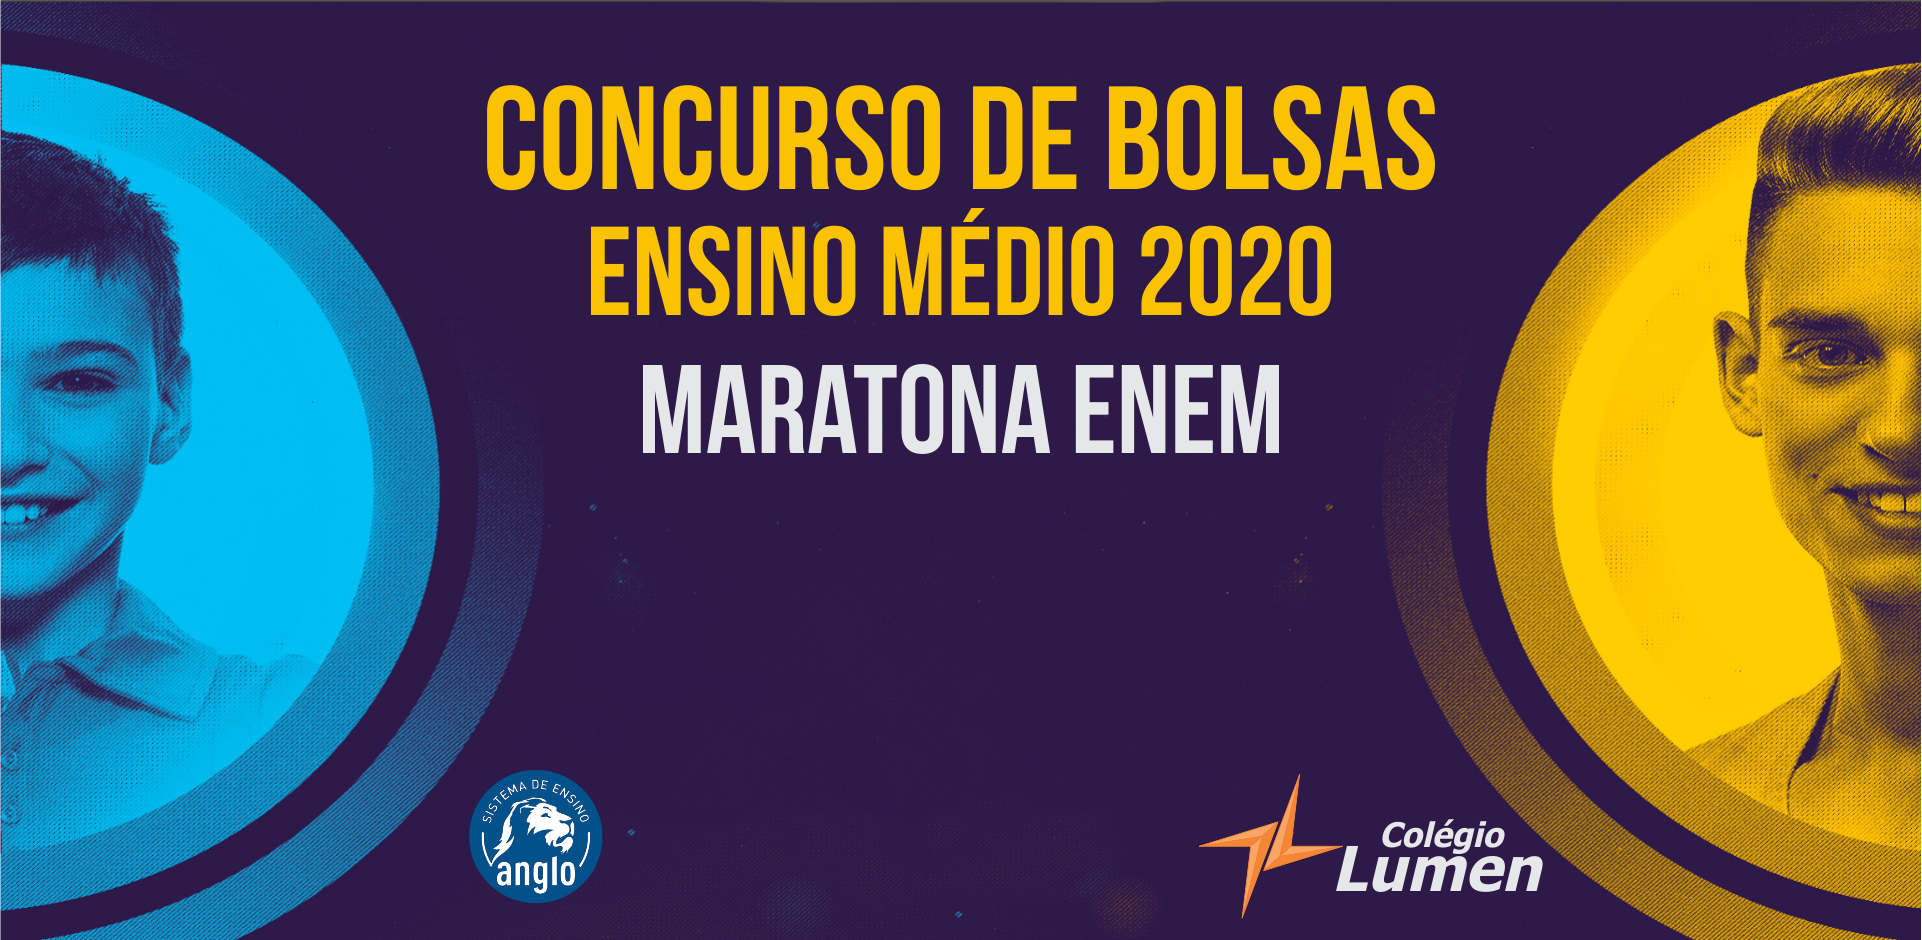
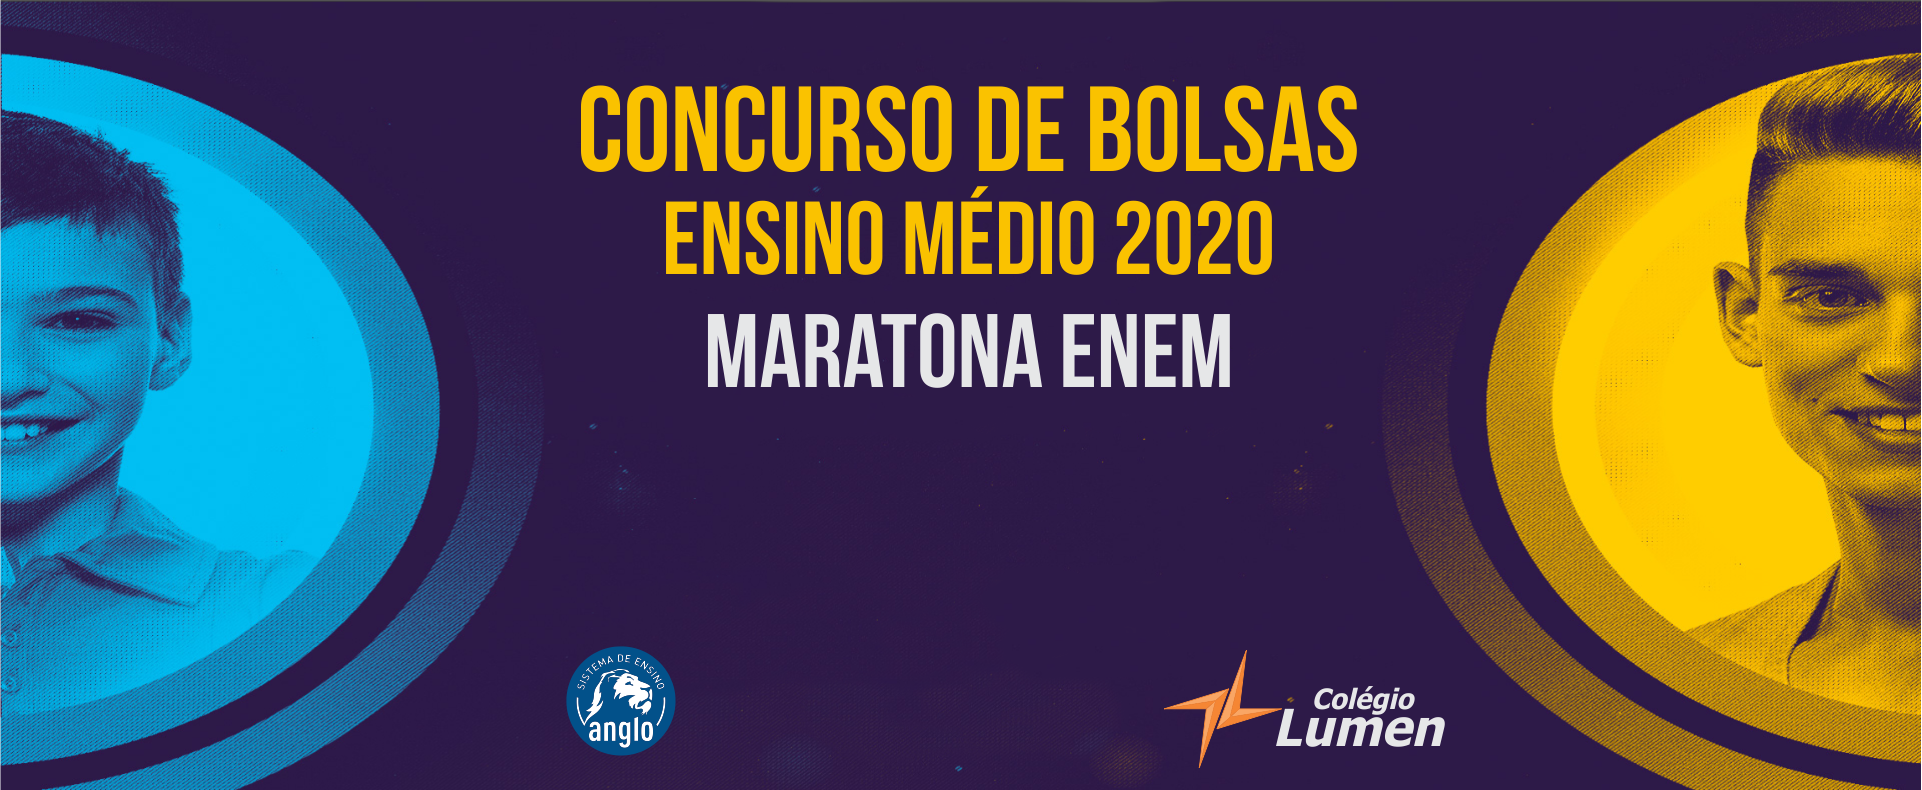
teste

Changed region(s): [[0.2497, 0.0911, 0.7492, 0.4861], [0.5931, 0.8506, 0.8117, 0.9722], [0.2185, 0.8203, 0.3746, 0.9722]]

diff --git a/concurso/index.html b/concurso/index.html
@@ -9,7 +9,7 @@ permalink: /concurso/
     
     <div class="col-sm-12">
         <div class="post-aluno gabaritos">
-           <--<center> <img src="/img/fundo.png" width="1920" height="77">-->
+           <center> <img src="/img/fundo.png" width="1920" height="790">
             
             
            <div class="content">       

diff --git a/index.html b/index.html
@@ -51,7 +51,7 @@ permalink: /
 </div>
 
 
-<!--<center><a href="/concurso/index.html"><img src="/img/banner1.jpg"></a></center><br>-->
+<center><a href="/concurso/index.html"><img src="/img/banner1.jpg"></a></center><br>
 <center><a href="/veja2019/index.html"><img src="/img/banner.jpg"></a></center><br>
 
 
